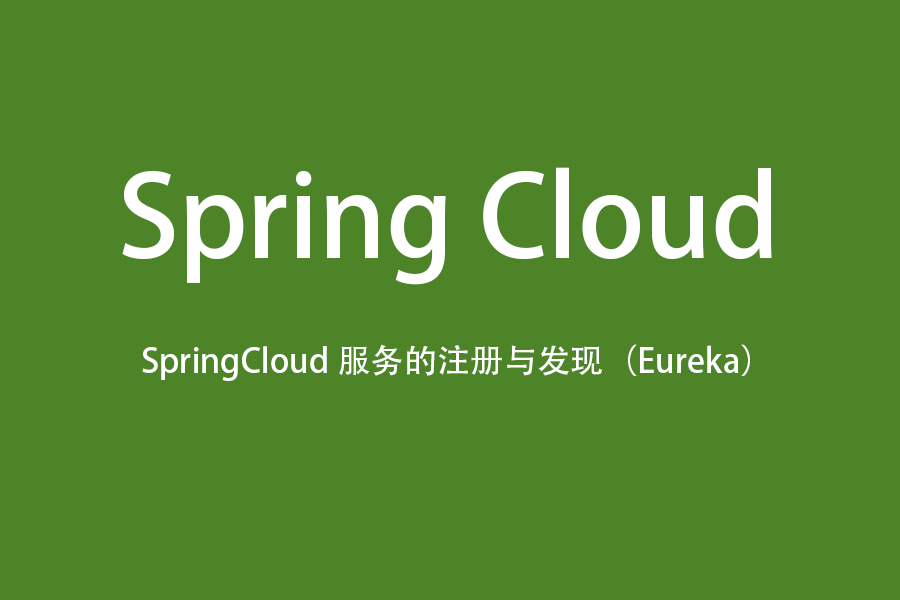
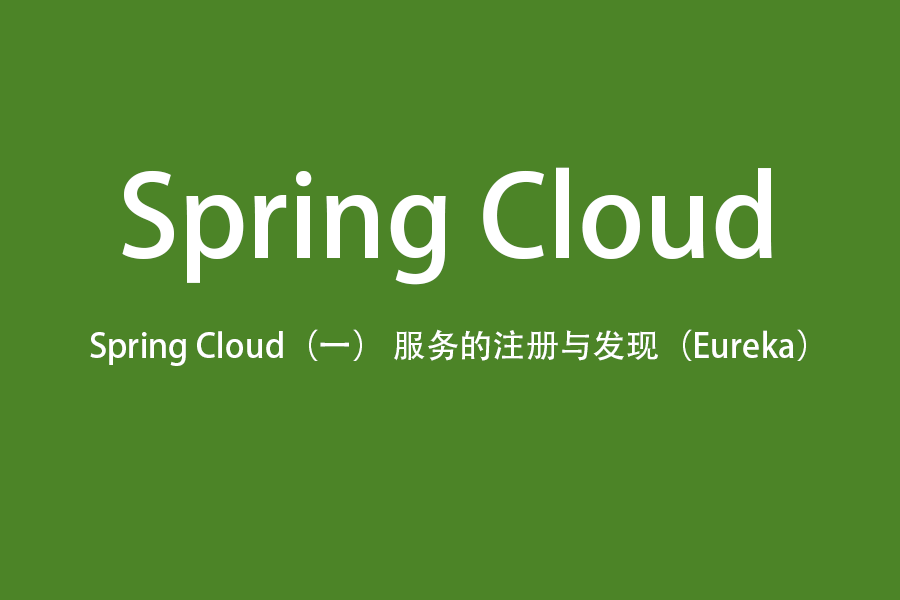
Spring Cloud

Changed region(s): [[0.0933, 0.54, 0.9022, 0.63]]

diff --git a/_posts/SpringCloud/2017-12-05-spring-cloud-ribbon-rest.md b/_posts/SpringCloud/2017-12-05-spring-cloud-ribbon-rest.md
@@ -1,6 +1,6 @@
 ---
 layout: post
-title:  Spring Cloud 服务提供者 Eureka + 服务消费者（rest + Ribbon）
+title:  Spring Cloud（三） 服务提供者 Eureka + 服务消费者（rest + Ribbon）
 categories: SpringCloud
 description: Spring Cloud 服务提供者 Eureka + 服务消费者（rest + Ribbon）
 keywords: SpringCloud 
@@ -377,14 +377,14 @@ server:
 ![测试提供者，负载均衡响应][8]
 
 
-[1]: /images/2017/SpringCloud/ribbon/1.png
-[2]: /images/2017/SpringCloud/ribbon/2.png
-[3]: /images/2017/SpringCloud/ribbon/3.png
-[4]: /images/2017/SpringCloud/ribbon/4.png
-[5]: /images/2017/SpringCloud/ribbon/5.png
-[6]: /images/2017/SpringCloud/ribbon/6.png
-[7]: /images/2017/SpringCloud/ribbon/7.png
-[8]: /images/2017/SpringCloud/ribbon/8.png
+[1]: http://www.ymq.io/images/2017/SpringCloud/ribbon/1.png
+[2]: http://www.ymq.io/images/2017/SpringCloud/ribbon/2.png
+[3]: http://www.ymq.io/images/2017/SpringCloud/ribbon/3.png
+[4]: http://www.ymq.io/images/2017/SpringCloud/ribbon/4.png
+[5]: http://www.ymq.io/images/2017/SpringCloud/ribbon/5.png
+[6]: http://www.ymq.io/images/2017/SpringCloud/ribbon/6.png
+[7]: http://www.ymq.io/images/2017/SpringCloud/ribbon/7.png
+[8]: http://www.ymq.io/images/2017/SpringCloud/ribbon/8.png
 
 
 **注意：spring-cloud-eureka-provider** 项目，改成不同端口发布两次

diff --git a/_posts/SpringCloud/2017-11-22-spring-cloud-eureka.md b/_posts/SpringCloud/2017-11-22-spring-cloud-eureka.md
@@ -1,6 +1,6 @@
 ---
 layout: post
-title:  Spring Cloud 服务的注册与发现（Eureka）
+title:  Spring Cloud（一）服务的注册与发现（Eureka）
 categories: SpringCloud
 description: SpringCloud 服务的注册与发现（Eureka）
 keywords: SpringCloud 

diff --git a/_posts/SpringCloud/2017-11-26-spring-cloud-consul.md b/_posts/SpringCloud/2017-11-26-spring-cloud-consul.md
@@ -1,6 +1,6 @@
 ---
 layout: post
-title: Spring Cloud Consul 服务治理实现
+title: Spring Cloud（二） Consul 服务治理实现
 categories: SpringCloud
 description: pring Cloud Consul 服务治理实现
 keywords: SpringCloud 
